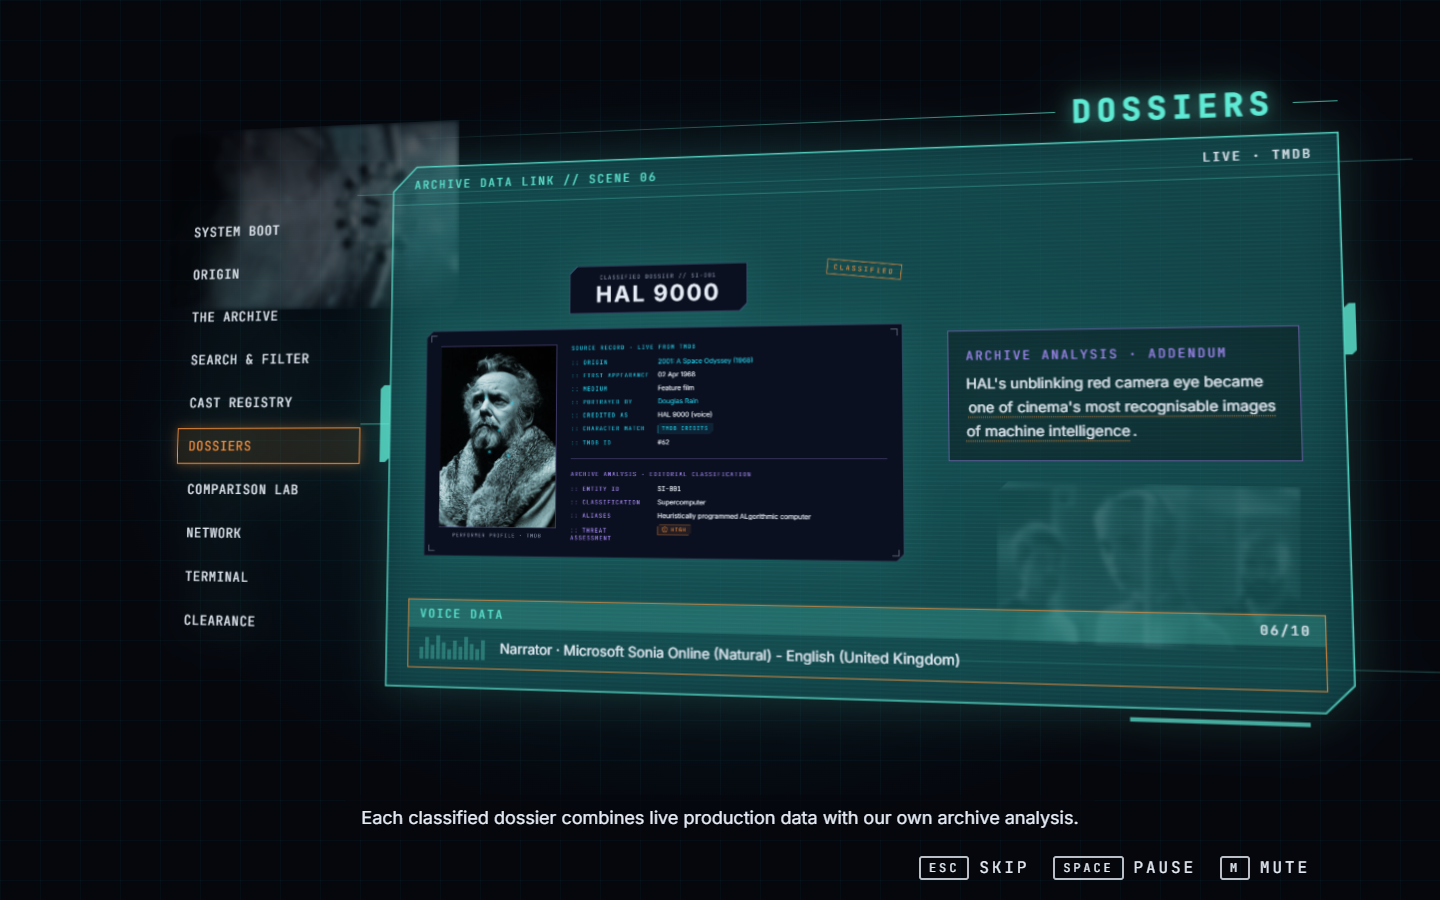
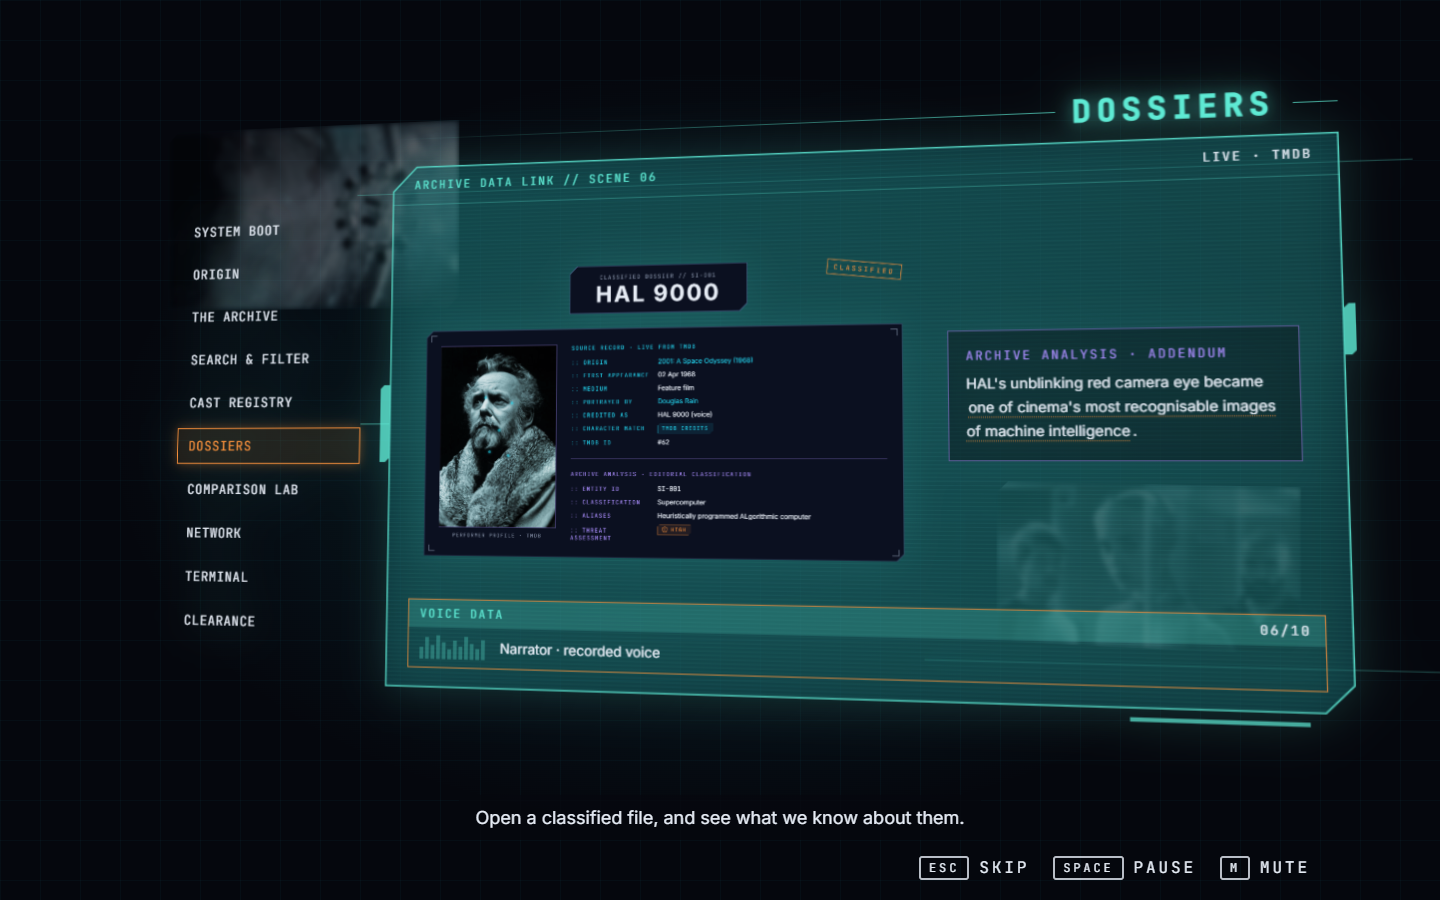
README: refresh intro screenshots with the recorded narrator

Changed region(s): [[0.25, 0.9022, 0.75, 0.9333], [0.375, 0.7156, 0.6875, 0.7467]]

diff --git a/README.md b/README.md
@@ -150,6 +150,19 @@ theme keyword IDs.
 
 <img src="docs/screenshots/mobile-dossier.png" alt="Dossier page on a phone" width="300">
 
+### Boot Sequence intro, scene by scene
+
+Ten scenes built from the site's real components and live TMDB data, with a recorded narrator and
+captions (*Replay intro* in the footer of the live site).
+
+| 1 · System boot | 2 · Origin |
+|---|---|
+| ![Intro scene 1, system boot](docs/screenshots/intro-boot.png) | ![Intro scene 2, live TMDB stills in the HUD rings](docs/screenshots/intro-origin.png) |
+
+| 3 · The archive (live counts) | 9 · Terminal |
+|---|---|
+| ![Intro scene 3, live archive counts and posters](docs/screenshots/intro-archive.png) | ![Intro scene 9, the Archive Terminal running a real command](docs/screenshots/intro-terminal.png) |
+
 ---
 
 ## Tech stack
